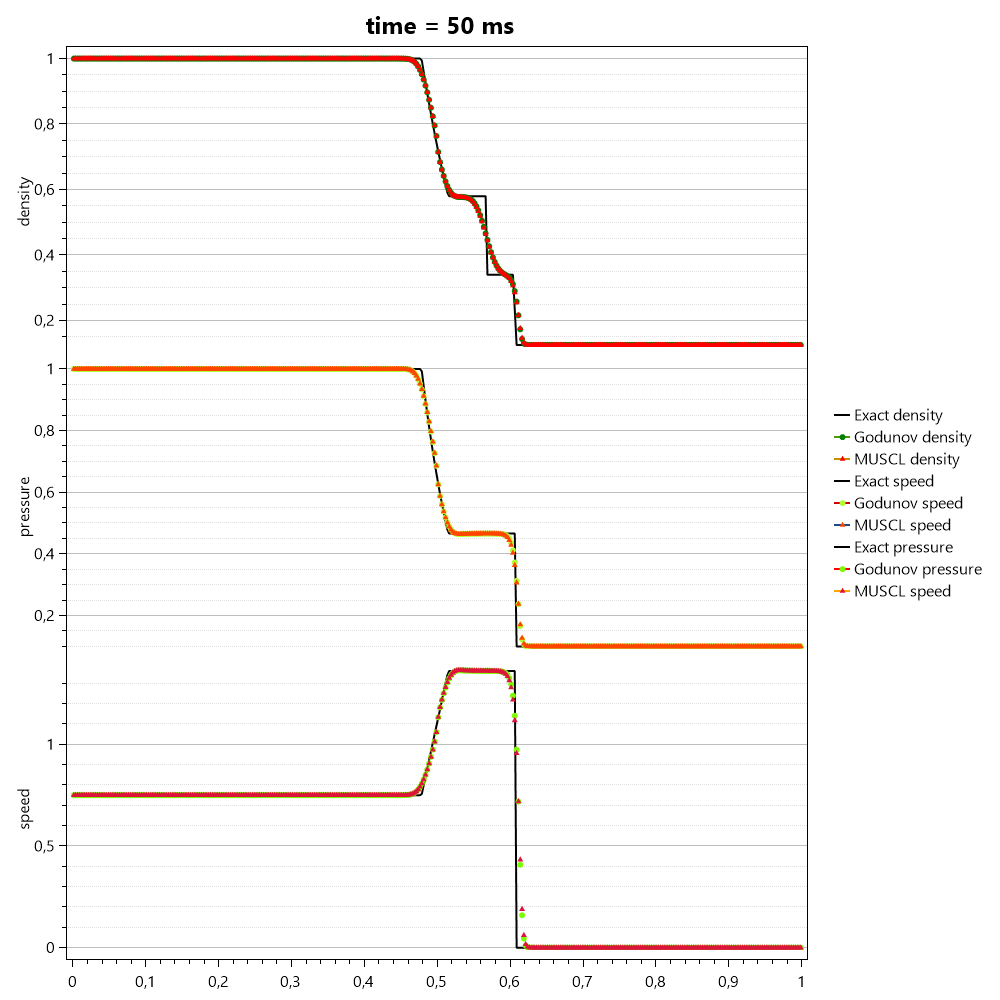
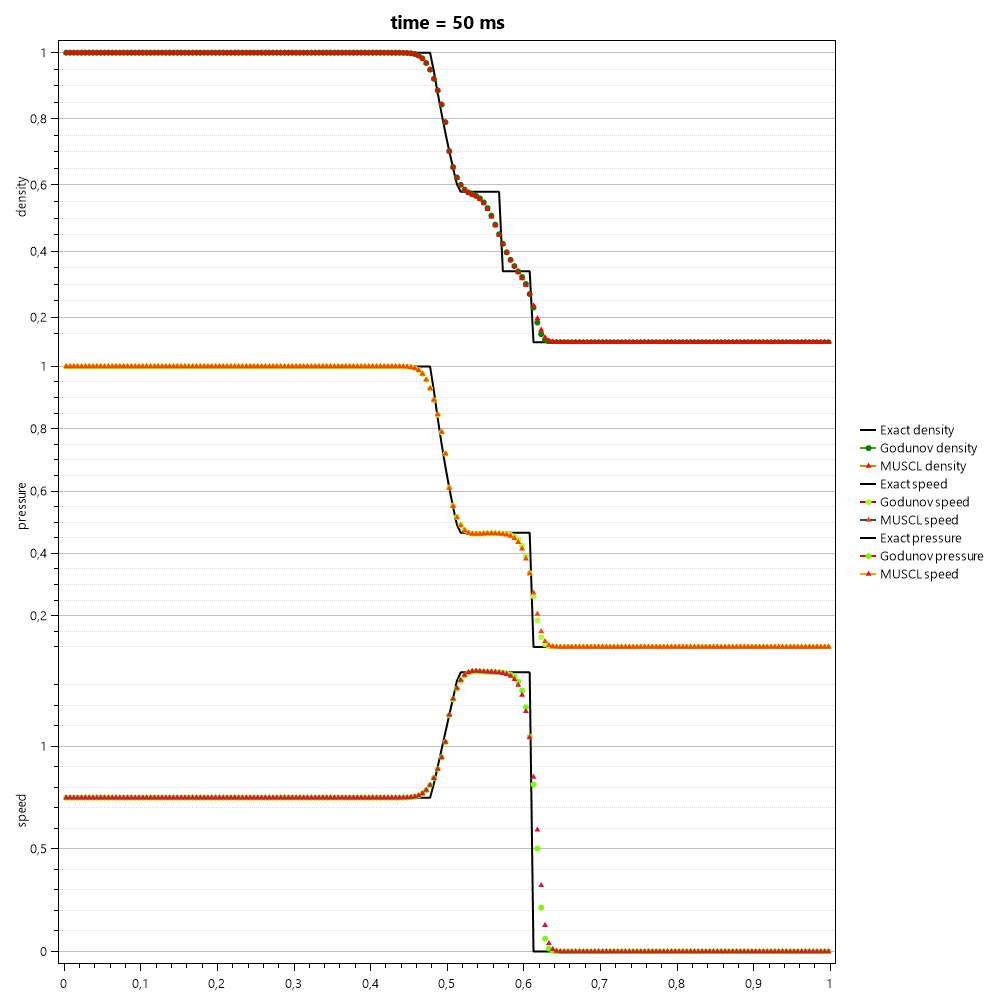
path

diff --git a/CFL/minmod.cs b/CFL/minmod.cs
@@ -29,7 +29,7 @@ namespace Sod.CFL
         }
 
 
-        public double[,] CalculateWrite(string result_name_file, bool write = true, int presision = 3, double CFL = 0.2, bool predictor = false)
+        public double[,] CalculateWrite(string result_name_file, bool write = true, int presision = 3, double CFL = 0.2, bool predictor = false, string path ="")
         {
             int boundary = 1;
             result_name_file += "minmod_";
@@ -99,7 +99,7 @@ namespace Sod.CFL
                 }
             }
             if (write)
-                PlotSod(param, xc, u_prev, curr_t, N, GAMMA, result_name_file, "C:\\Users\\Alex\\source\\repos\\Sod\\1_results\\");
+                PlotSod(param, xc, u_prev, curr_t, N, GAMMA, result_name_file, path);
             while (T_END - curr_t > 0)
             {
                 
@@ -177,10 +177,12 @@ namespace Sod.CFL
                             temp2[j] = u_predicted[i, j];
                             temp3[j] = u_predicted[i + 1, j];
                         }
-                        temp1[j] = u_prev[i - 1, j];
-                        temp2[j] = u_prev[i, j];
-                        temp3[j] = u_prev[i + 1, j];
-
+                        else
+                        {
+                            temp1[j] = u_prev[i - 1, j];
+                            temp2[j] = u_prev[i, j];
+                            temp3[j] = u_prev[i + 1, j];
+                        }
                         Qm[i,j] = minmod((temp3[j] - temp2[j]) / h, (temp2[j] - temp1[j]) / h);
                     }
                 }
@@ -238,10 +240,12 @@ namespace Sod.CFL
                                 temp2[j] = u_predicted[i, j];
                                 temp3[j] = u_predicted[i + 1, j];
                             }
-                            temp1[j] = u_prev[i - 1, j];
-                            temp2[j] = u_prev[i, j];
-                            temp3[j] = u_prev[i + 1, j];
-
+                            else
+                            {
+                                temp1[j] = u_prev[i - 1, j];
+                                temp2[j] = u_prev[i, j];
+                                temp3[j] = u_prev[i + 1, j];
+                            }
                             mm1[j] = Qm[i-1, j];
                             mm2[j] = Qm[i , j];
                             mm3[j] = Qm[i +1, j];
@@ -268,14 +272,14 @@ namespace Sod.CFL
                 if (write)
                     if (0.0001 < curr_t & curr_t < 0.1 & Math.Round(curr_t % 0.005, presision) == 0)
                     {
-                        PlotSod(param, xc, u_prev, curr_t, N, GAMMA, result_name_file, "C:\\Users\\Alex\\source\\repos\\Sod\\1_results\\");
+                        PlotSod(param, xc, u_prev, curr_t, N, GAMMA, result_name_file, path);
 
                     }
                     else
                     {
                         if (curr_t >= 0.1 & Math.Round(curr_t % 0.1, presision) == 0)
                         {
-                            PlotSod(param, xc, u_prev, curr_t, N, GAMMA, result_name_file, "C:\\Users\\Alex\\source\\repos\\Sod\\1_results\\");
+                            PlotSod(param, xc, u_prev, curr_t, N, GAMMA, result_name_file, path);
                         }
                     }
             }
@@ -287,7 +291,7 @@ namespace Sod.CFL
             double[] res = new double[u.Length];
             for (int i = 0;i<u.Length;i++)
             {
-                if (u[i] != 0)
+                if (q[i] != 0)
                     res[i] = u[i]+ sign * 0.5 * h * q[i];
                 res[i] = u[i];
             }

diff --git a/Program.cs b/Program.cs
@@ -12,15 +12,15 @@ namespace Sod
     {
         static void Main()
         {
-            string path = "C:\\Users\\Alex\\source\\repos\\Sod\\1_results\\";
-            int N = 400;
+            string path = "C:\\Users\\priym\\source\\repos\\Sod\\1_results\\";
+            int N = 200;
             string result_name_file = $"";
             double gamma = 1.4;
             double time = 0.05;
 
             // Sod, Modified Sod, 2 vacuum waves, Big gradient, 3 breaks
-            double[,] left = { { 1, 0, 1 }, { 1.0, 0.75, 1.0 }, { 1.0, -2.0, 0.4 }, /*{ 1.0, 0.0, 1000.0 },*/ { 5.99924, 19.5975, 460.894 } };
-            double[,] right = { { 0.125, 0.0, 0.1 }, { 0.125, 0.0, 0.1 }, { 1.0, 2.0, 0.4 }, /*{ 1.0, 0.0, 0.01 },*/ { 5.99242, -6.19633, 46.0950 } };
+            double[,] left = { { 1, 0, 1 }, { 1.0, 0.75, 1.0 }, { 1.0, -2.0, 0.4 }, { 1.0, 0.0, 1000.0 }, { 5.99924, 19.5975, 460.894 } };
+            double[,] right = { { 0.125, 0.0, 0.1 }, { 0.125, 0.0, 0.1 }, { 1.0, 2.0, 0.4 }, { 1.0, 0.0, 0.01 }, { 5.99242, -6.19633, 46.0950 } };
 
             for (int i = 0; i <= left.Length; i++)
             {
@@ -35,13 +35,13 @@ namespace Sod
                 var param = new Parameters(N, time, [ro_left, u_left, p_left], [ro_right, u_right, p_right], gamma);
 
                 var CIR = new CIR(param);
-                var k = CIR.CalculateWrite(result_name_file+"Test "+i.ToString()+ " ",false,3,0.2);
+                var k = CIR.CalculateWrite(result_name_file+"Test "+i.ToString()+ " ",false,3,0.2, path);
 
                 var gg = new Godunov(param);
-                var g = gg.CalculateWrite(result_name_file + "Test " + i.ToString() + " ",false, 3, 0.2);
+                var g = gg.CalculateWrite(result_name_file + "Test " + i.ToString() + " ",false, 3, 0.2,  path);
 
                 var mm = new Minmod(param);
-                var m = mm.CalculateWrite(result_name_file + "Test " + i.ToString() + " ", false, 3, 0.1,true);
+                var m = mm.CalculateWrite(result_name_file + "Test " + i.ToString() + " ", false, 3, 0.2, true, path);
 
                 Plots.PlotBoth(param, g, m, "Test " + i.ToString() + " ","Godunov","MUSCL", path);
             }

diff --git a/CFL/CIR.cs b/CFL/CIR.cs
@@ -22,7 +22,7 @@ namespace Sod.CFL
             param = par;
         }
 
-        public double[,] CalculateWrite(string result_name_file, bool write = true, int presision = 3, double CFL = 0.2)
+        public double[,] CalculateWrite(string result_name_file, bool write = true, int presision = 3, double CFL = 0.2, string path="")
         {
             int boundary = 1;
             result_name_file += "CIR_";
@@ -87,7 +87,7 @@ namespace Sod.CFL
                 }
             }
             if (write)
-                PlotSod(param, xc, u_prev, curr_t, N, GAMMA, result_name_file, "C:\\Users\\Alex\\source\\repos\\Sod\\1_results\\");
+                PlotSod(param, xc, u_prev, curr_t, N, GAMMA, result_name_file, path);
             while (T_END - curr_t > 0)
             {
 
@@ -152,14 +152,14 @@ namespace Sod.CFL
                 if (write)
                     if (0.0001 < curr_t & curr_t < 0.1 & Math.Round(curr_t % 0.005, presision) == 0)
                     {
-                        PlotSod(param, xc, u_prev, curr_t, N, GAMMA, result_name_file, "C:\\Users\\Alex\\source\\repos\\Sod\\1_results\\");
+                        PlotSod(param, xc, u_prev, curr_t, N, GAMMA, result_name_file, path);
                         
                     }
                     else
                     {
                         if (curr_t >= 0.1 & Math.Round(curr_t % 0.1, presision) == 0)
                         {
-                            PlotSod(param, xc, u_prev, curr_t, N, GAMMA, result_name_file, "C:\\Users\\Alex\\source\\repos\\Sod\\1_results\\");
+                            PlotSod(param, xc, u_prev, curr_t, N, GAMMA, result_name_file, path);
                         }
                     }
             }

diff --git a/CFL/Godunov.cs b/CFL/Godunov.cs
@@ -18,7 +18,7 @@ namespace Sod.CFL
             param = par;
         }
 
-        public double[,] CalculateWrite(string result_name_file, bool write = true, int presision = 3, double CFL = 0.2)
+        public double[,] CalculateWrite(string result_name_file, bool write = true, int presision = 3, double CFL = 0.2, string path = ""  )
         {
             int boundary = 1;
             result_name_file += "Godunov_";
@@ -83,7 +83,7 @@ namespace Sod.CFL
                 }
             }
             if (write)
-                PlotSod(param, xc, u_prev, curr_t, N, GAMMA, result_name_file, "C:\\Users\\Alex\\source\\repos\\Sod\\1_results\\");
+                PlotSod(param, xc, u_prev, curr_t, N, GAMMA, result_name_file, path);
             while (T_END - curr_t > 0)
             {
 
@@ -148,14 +148,14 @@ namespace Sod.CFL
                 if (write)
                     if (0.0001 < curr_t & curr_t < 0.1 & Math.Round(curr_t % 0.005, presision) == 0)
                     {
-                        PlotSod(param, xc, u_prev, curr_t, N, GAMMA, result_name_file, "C:\\Users\\Alex\\source\\repos\\Sod\\1_results\\");
+                        PlotSod(param, xc, u_prev, curr_t, N, GAMMA, result_name_file, path);
 
                     }
                     else
                     {
                         if (curr_t >= 0.1 & Math.Round(curr_t % 0.1, presision) == 0)
                         {
-                            PlotSod(param, xc, u_prev, curr_t, N, GAMMA, result_name_file, "C:\\Users\\Alex\\source\\repos\\Sod\\1_results\\");
+                            PlotSod(param, xc, u_prev, curr_t, N, GAMMA, result_name_file, path);
                         }
                     }
             }
